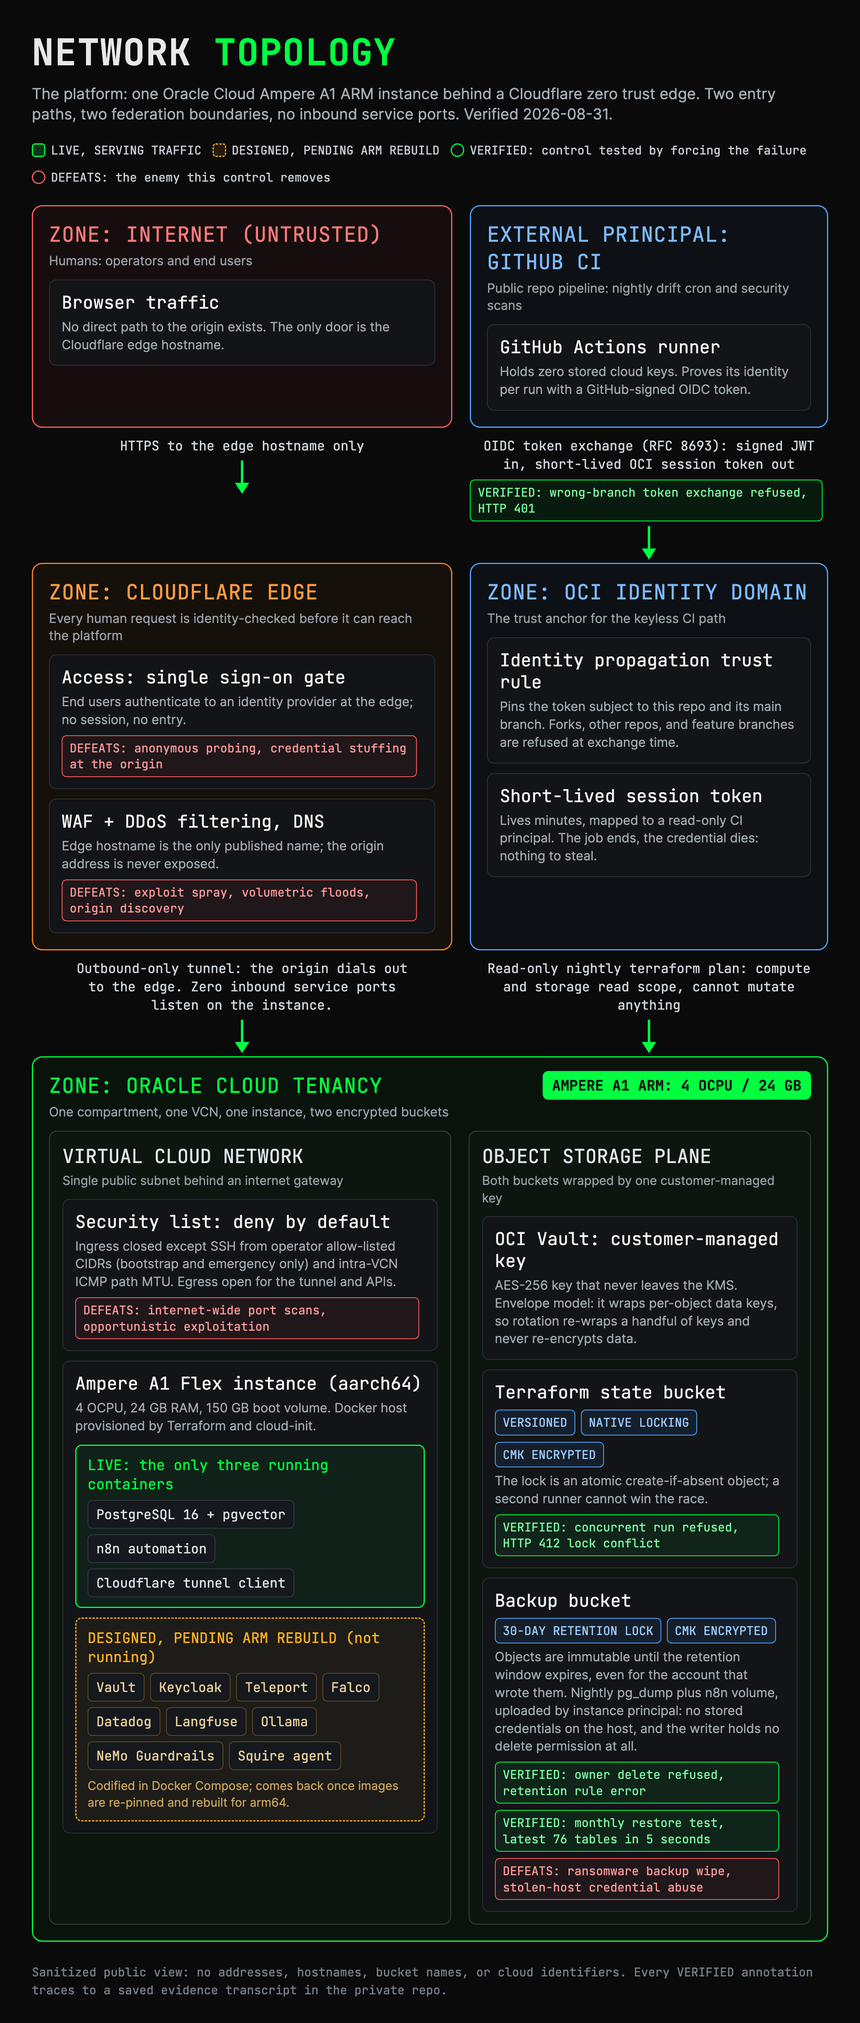
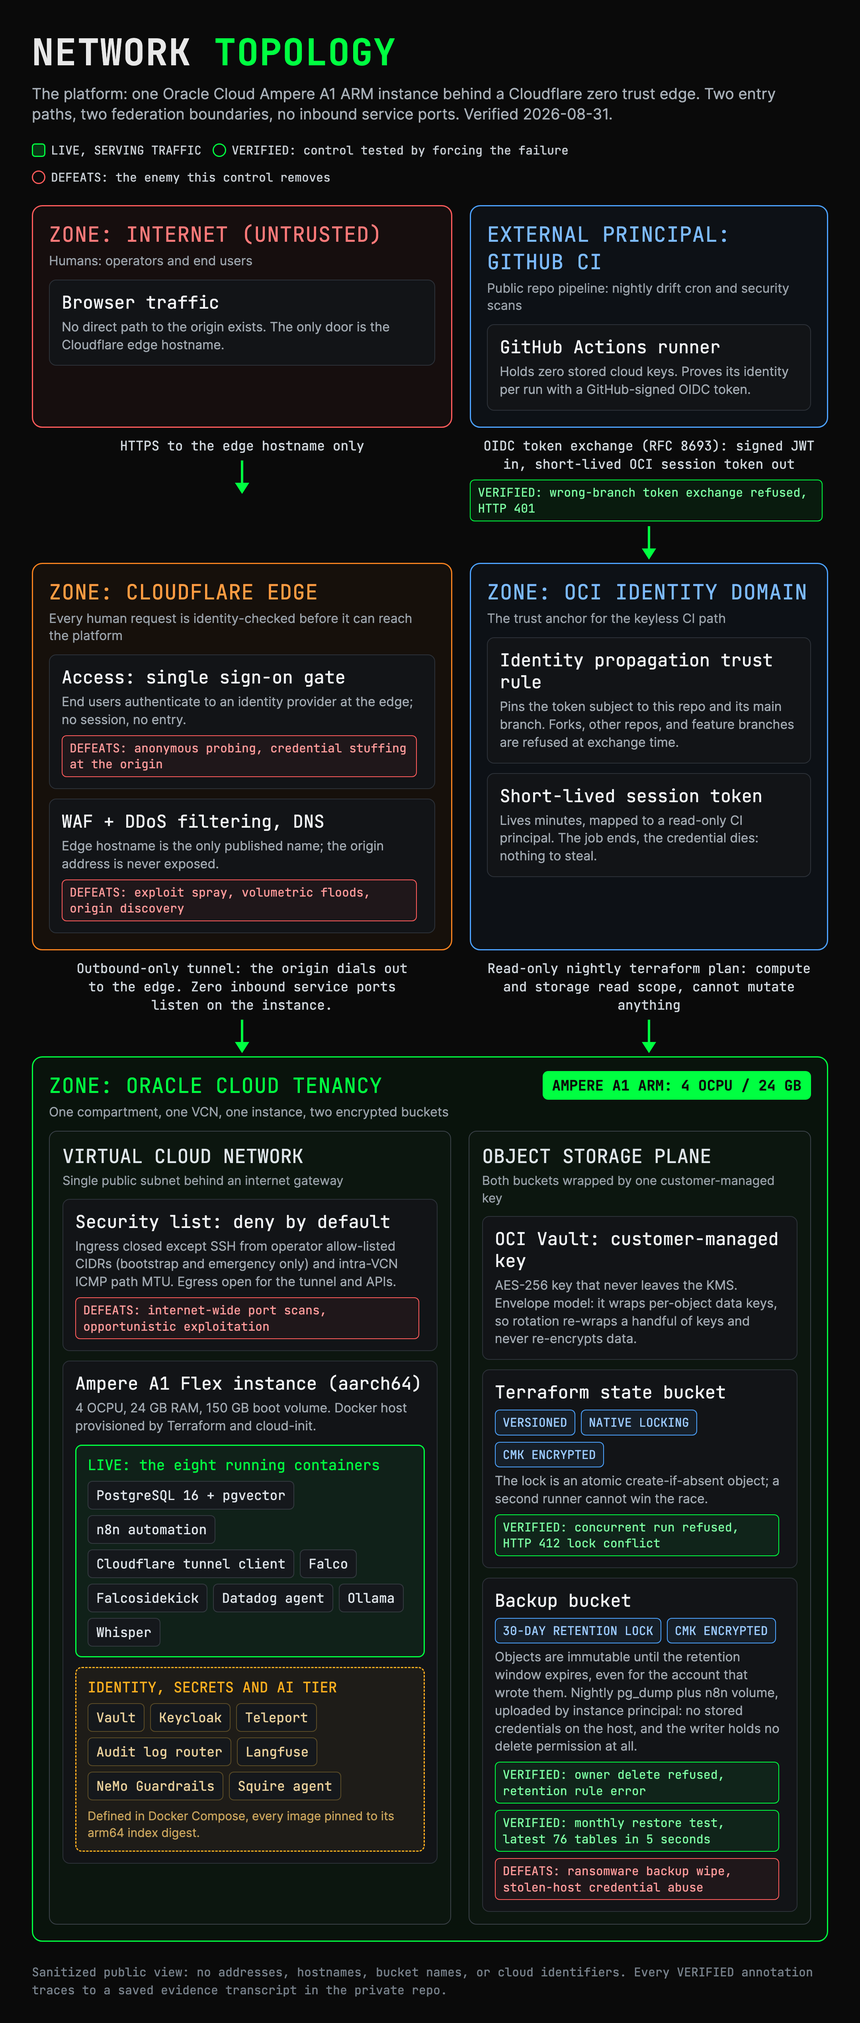
docs(24-01): a dated environment line per governance document, and the metrics constants corrected

Changed region(s): [[0.0931, 0.7155, 0.4653, 0.9333], [0.2481, 0.0622, 0.2792, 0.0933]]

diff --git a/docs/grc/diagrams/stack_overview_hero.html b/docs/grc/diagrams/stack_overview_hero.html
@@ -35,7 +35,7 @@
   .c-ci   .item::before { background:#B48CFF; }
   .item b { color:#fff; font-weight:600; }
 
-  .pending { margin-top:40px; border:3px dashed #FFB020; border-radius:26px; padding:38px 42px; background:rgba(255,176,32,.04); }
+  .tierbox { margin-top:40px; border:3px dashed #FFB020; border-radius:26px; padding:38px 42px; background:rgba(255,176,32,.04); }
   .ptitle { font-family:'JetBrains Mono','SF Mono',Menlo,monospace; font-size:56px; color:#FFB020; }
   .psub { font-size:36px; color:#c9a45c; margin-top:12px; line-height:1.4; }
   .ptags { display:flex; flex-wrap:wrap; gap:16px; margin-top:26px; }
@@ -56,7 +56,7 @@
   <div>
     <div class="eyebrow">SECURITY ENGINEERING REFERENCE STACK</div>
     <h1>THE PLATFORM <span class="green">AT A GLANCE</span></h1>
-    <div class="thesis">Two clouds in production, a third gated and scheduled: Oracle runs the workloads, Cloudflare runs the zero trust edge, AWS takes custody of evidence and break-glass. Keyless pipeline, immutable backups, self-auditing infrastructure. <b>Every control verified by making it fail.</b></div>
+    <div class="thesis">Two clouds in production and a third held behind an apply gate: Oracle runs the workloads, Cloudflare runs the zero trust edge, AWS takes custody of evidence and break-glass. Keyless pipeline, immutable backups, self-auditing infrastructure. <b>Every control verified by making it fail.</b></div>
   </div>
   <div class="shape">
     <div class="amt">24 GB</div>
@@ -75,7 +75,7 @@
   <div class="card c-comp">
     <div class="chead"><div class="ctitle">COMPUTE</div></div>
     <div class="item"><b>Ampere A1 ARM instance</b> in a deny-by-default VCN, fully Terraform-managed</div>
-    <div class="item"><b>Live containers:</b> PostgreSQL 16 + pgvector, n8n, tunnel client</div>
+    <div class="item"><b>Live containers:</b> PostgreSQL 16 + pgvector, n8n, tunnel client, Falco, Falcosidekick, Datadog agent, Ollama, Whisper</div>
     <div class="item"><b>SSH:</b> break-glass only, from allow-listed operator CIDRs</div>
   </div>
 
@@ -94,18 +94,18 @@
   </div>
 </div>
 
-<div class="pending">
-  <div class="ptitle">AI SECURITY LAYER: DESIGNED, PENDING ARM REBUILD</div>
-  <div class="psub">Codified in Docker Compose, not running yet. Returns as images are re-pinned and rebuilt for arm64.</div>
+<div class="tierbox">
+  <div class="ptitle">AI SECURITY LAYER</div>
+  <div class="psub">Defined in Docker Compose, every image pinned to its arm64 index digest.</div>
   <div class="ptags">
     <span class="ptag">Vault</span><span class="ptag">Keycloak</span><span class="ptag">Teleport</span>
-    <span class="ptag">Falco</span><span class="ptag">Datadog</span><span class="ptag">Langfuse</span>
-    <span class="ptag">Ollama</span><span class="ptag">NeMo Guardrails</span><span class="ptag">Squire agent</span>
+    <span class="ptag">Audit log router</span><span class="ptag">Langfuse</span>
+    <span class="ptag">NeMo Guardrails</span><span class="ptag">Squire agent</span>
   </div>
 </div>
 
-<div class="pending">
-  <div class="ptitle">AWS SECURITY PLANE: DESIGNED, APPLY SCHEDULED</div>
+<div class="tierbox">
+  <div class="ptitle">AWS SECURITY PLANE, HELD BEHIND AN APPLY GATE</div>
   <div class="psub">Terraform public and gate-checked. The watcher does not live in the house it watches: evidence, backup replicas, and break-glass move off the workload cloud.</div>
   <div class="ptags">
     <span class="ptag">S3 Object Lock evidence vault</span><span class="ptag">Cross-cloud break-glass + alert-on-use</span>

diff --git a/docs/grc/diagrams/network_topology.html b/docs/grc/diagrams/network_topology.html
@@ -81,7 +81,6 @@
 
 <div class="legend">
   <div class="lg"><span class="sw live"></span>LIVE, SERVING TRAFFIC</div>
-  <div class="lg"><span class="sw pend"></span>DESIGNED, PENDING ARM REBUILD</div>
   <div class="lg"><span class="sw ver"></span>VERIFIED: control tested by forcing the failure</div>
   <div class="lg"><span class="sw def"></span>DEFEATS: the enemy this control removes</div>
 </div>
@@ -182,22 +181,24 @@
         <div class="nsub">4 OCPU, 24 GB RAM, 150 GB boot volume. Docker host provisioned by Terraform and cloud-init.</div>
 
         <div class="livebox">
-          <div class="liveh">LIVE: the only three running containers</div>
+          <div class="liveh">LIVE: the eight running containers</div>
           <div class="ctrs">
             <span class="ctr">PostgreSQL 16 + pgvector</span>
             <span class="ctr">n8n automation</span>
             <span class="ctr">Cloudflare tunnel client</span>
+            <span class="ctr">Falco</span><span class="ctr">Falcosidekick</span>
+            <span class="ctr">Datadog agent</span><span class="ctr">Ollama</span><span class="ctr">Whisper</span>
           </div>
         </div>
 
         <div class="pendbox">
-          <div class="pendh">DESIGNED, PENDING ARM REBUILD (not running)</div>
+          <div class="pendh">IDENTITY, SECRETS AND AI TIER</div>
           <div class="ctrs">
             <span class="ctr">Vault</span><span class="ctr">Keycloak</span><span class="ctr">Teleport</span>
-            <span class="ctr">Falco</span><span class="ctr">Datadog</span><span class="ctr">Langfuse</span>
-            <span class="ctr">Ollama</span><span class="ctr">NeMo Guardrails</span><span class="ctr">Squire agent</span>
+            <span class="ctr">Audit log router</span><span class="ctr">Langfuse</span>
+            <span class="ctr">NeMo Guardrails</span><span class="ctr">Squire agent</span>
           </div>
-          <div class="pendnote">Codified in Docker Compose; comes back once images are re-pinned and rebuilt for arm64.</div>
+          <div class="pendnote">Defined in Docker Compose, every image pinned to its arm64 index digest.</div>
         </div>
       </div>
     </div>

diff --git a/docs/grc/diagrams/security_boundaries.html b/docs/grc/diagrams/security_boundaries.html
@@ -130,12 +130,11 @@
   <div class="inner">
     <div class="icard">
       <div class="ilabel">LIVE workload</div>
-      <div class="isub">PostgreSQL 16 + pgvector, n8n, Cloudflare tunnel client. The only three running containers.</div>
+      <div class="isub">PostgreSQL 16 with pgvector, n8n, the Cloudflare tunnel client, Falco, Falcosidekick, the Datadog agent, Ollama and Whisper.</div>
     </div>
     <div class="icard">
-      <div class="ilabel">Designed, not running</div>
-      <div class="isub">Vault, Keycloak, Teleport, Falco, Datadog, Langfuse, Ollama, NeMo Guardrails, Squire agent.</div>
-      <span class="pendtag">PENDING ARM REBUILD</span>
+      <div class="ilabel">Identity, secrets and AI tier</div>
+      <div class="isub">Vault, Keycloak, Teleport, the audit log router, Langfuse, NeMo Guardrails, Squire agent.</div>
     </div>
   </div>
 </div>

diff --git a/scripts/build_metrics.py b/scripts/build_metrics.py
@@ -30,15 +30,15 @@ WORKLOAD_LANES = ("coredirective", "empire", "filler")
 
 # Owner-approved public values not derivable from disk (or where disk would mislead).
 OWNER_APPROVED = {
-    # Container counts: the OCI instance runs a 3-container core (Postgres+pgvector,
-    # n8n, tunnel client) while the 19-service design is rebuilt for ARM. Both
-    # numbers are owner-approved; live count re-verified 2026-09-01.
+    # Container counts: both numbers are owner-approved. The live count is
+    # re-verified from docker ps on the host on the date beside it (2026-09-12);
+    # the design count is the service list in the master compose file.
     "containers_live": 8,
     "containers_designed": 19,
     # AI engine identifiers come from host config files, not always synced locally.
     "openclaw_model": "Claude Fable 5",
     "openclaw_model_id": "claude-fable-5",
-    "ollama_model": "Qwen 3 8B",
+    "ollama_model": "Qwen 3.5 9B",
     "whisper_engine": "faster-whisper",
 }
 
@@ -191,8 +191,8 @@ def compute_grc() -> dict:
 
 def compute_infra() -> dict:
     # Active IaC is the OCI directory (2026-08-19 migration). The archived
-    # DO directory still holds the Datadog monitor/dashboard definitions
-    # (codified, pending the ARM rebuild), so those counts come from there.
+    # DO directory still holds the Datadog monitor and dashboard definitions,
+    # so those counts come from there.
     tf_dir = REPO_ROOT / "terraform" / "cd-oci-infrastructure"
     aws_plane_dir = REPO_ROOT / "terraform" / "cd-aws-security-plane"
     legacy_dir = REPO_ROOT / "terraform" / "cd-do-infrastructure"
@@ -432,7 +432,7 @@ def main() -> int:
         "filesystem_root": ".",
         "ssp_source": "docs/grc/SSP_*.md",
         "poam_source": "docs/grc/POAM_PLAN_OF_ACTION.md",
-        "terraform_source": "terraform/cd-oci-infrastructure/ (active); terraform/cd-aws-security-plane/ (designed, apply scheduled); terraform/cd-do-infrastructure/ (archived)",
+        "terraform_source": "terraform/cd-oci-infrastructure/ (active); terraform/cd-aws-security-plane/ (held behind an apply gate); terraform/cd-do-infrastructure/ (archived)",
         "detections_source": "detections/",
         "workflows_source": ".github/workflows/",
         "poam_auto_source": "docs/grc/POAM_AUTO_FINDINGS.md",

diff --git a/docs/grc/SQUIRE_SSP.md b/docs/grc/SQUIRE_SSP.md
@@ -22,7 +22,7 @@ related:
   - POAM-OPS-001
 ---
 
-> **Status note (2026-09-01):** this document describes the DigitalOcean-era baseline as assessed. That environment was retired 2026-08. The platform now runs on an Oracle Cloud (OCI) ARM instance with a partial stack (3 containers live); the remaining services are pending ARM rebuild. A re-baseline of this document is queued and tracked in the POA&M.
+> **Environment (2026-09-12):** this agent system security plan describes the platform as it runs on an Oracle Cloud (OCI) ARM instance.
 
 # System Security Plan: Squire Autonomous SOC Analyst
 
@@ -290,7 +290,7 @@ This section covers only controls that are Squire-specific. Inherited controls (
 |---------|--------|----------------|----------|
 | AC-2 | Implemented | Only the System Owner has credentials to Doppler config `prd`. Squire reads secrets at container start via `doppler run --`. No user accounts exist inside the Squire application itself. | `COREDIRECTIVE_ENGINE/docker-compose.yaml` (`svc-squire` environment block) |
 | AC-3 | Implemented | `POST /alert` requires header `x-squire-token` validated against Doppler secret `SQUIRE_INGEST_TOKEN`. Missing or mismatched token returns 401. | `builds/squire/src/squire/app.py` (token check with `hmac.compare_digest`) |
-| AC-4 | Implemented | Three Docker networks isolate traffic: `net-ai` (LLM path), `net-core` (database), `net-monitoring` (Langfuse emit). `svc-squire` joins `net-core` only in the compose today; the `net-ai` membership the local-model fallback needs is a queued compose change (ARM rebuild, application tier session). | `COREDIRECTIVE_ENGINE/docker-compose.yaml` networks block and the `svc-squire` service |
+| AC-4 | Implemented | Three Docker networks isolate traffic: `net-ai` (LLM path), `net-core` (database), `net-monitoring` (Langfuse emit). `svc-squire` carries both `net-core` and `net-ai`, which is what gives the local-model fallback a route while leaving the sealed segment without a route out. | `COREDIRECTIVE_ENGINE/docker-compose.yaml` networks block and the `svc-squire` service |
 | AC-6 | Implemented | Least privilege on container filesystem: `USER 10001:10001`, `read_only: true`, `tmpfs` for `/tmp`. No `CAP_*` added; `no-new-privileges` set. | `builds/squire/Dockerfile` + compose security_opt |
 | AC-17 | Implemented | All remote administration goes through the Cloudflare zero-trust tunnel or SSH on `alpha-node`. Neither the application nor Langfuse listen on the public internet. | Parent SSP inheritance plus tunnel config |
 
@@ -350,7 +350,7 @@ This section covers only controls that are Squire-specific. Inherited controls (
 
 | Control | Status | Implementation | Evidence |
 |---------|--------|----------------|----------|
-| SC-7 | Implemented | `svc-squire` is the only service that takes external traffic, and it is bound to loopback behind the Cloudflare tunnel. `svc-nemo` is the only service permitted to egress to the model API, because it is the container that makes the model call. Langfuse and `svc-db` are on internal networks only. Three layers keep the agent off the model API, named by strength: `svc-squire` receives no model key, its settings object has no field that can hold one, and its hosts file blackholes the model API name. The third is the weakest, since code with a hard coded address would defeat it; the egress allowlist proxy that closes it properly is queued for the rebuild phase. | `COREDIRECTIVE_ENGINE/docker-compose.yaml`: ports block binds `svc-squire` to `127.0.0.1:8020`, the key is set on `svc-nemo` only, and the `extra_hosts` entry carries the blackhole |
+| SC-7 | Implemented | `svc-squire` is the only service that takes external traffic, and it is bound to loopback behind the Cloudflare tunnel. `svc-nemo` is the only service permitted to egress to the model API, because it is the container that makes the model call. Langfuse and `svc-db` are on internal networks only. Three layers keep the agent off the model API, named by strength: `svc-squire` receives no model key, its settings object has no field that can hold one, and its hosts file blackholes the model API name. The third is the weakest, since code with a hard coded address would defeat it, and the egress allowlist that closes it is recorded privately with its plan number. | `COREDIRECTIVE_ENGINE/docker-compose.yaml`: ports block binds `svc-squire` to `127.0.0.1:8020`, the key is set on `svc-nemo` only, and the `extra_hosts` entry carries the blackhole |
 | SC-8 | Implemented | All external API calls use HTTPS. Cloudflare tunnel terminates TLS at the edge and re-encrypts to the container. | Cloudflare config |
 | SC-12 | Implemented | Cryptographic keys (API keys) live in Doppler. Rotation is quarterly for external API keys and on-demand for the ingest token. | Doppler rotation log |
 | SC-28 | Implemented | Data at rest in the `ir_*` tables is encrypted at the volume layer (parent SSP). Langfuse trace data has the same treatment. | Parent SSP LUKS coverage |

diff --git a/docs/grc/THREAT_MODEL_STRIDE.md b/docs/grc/THREAT_MODEL_STRIDE.md
@@ -9,7 +9,7 @@
 **Classification:** Internal Use Only
 **Version:** 1.2 (trust boundary numbering reconciled, register recount 2026-09-06)
 
-> **Status note (2026-09-01):** this document describes the DigitalOcean-era baseline as assessed. That environment was retired 2026-08. The platform now runs on an Oracle Cloud (OCI) ARM instance with a partial stack (3 containers live); the remaining services are pending ARM rebuild. A re-baseline of this document is queued and tracked in the POA&M.
+> **Environment (2026-09-12):** this threat model is drawn against the platform as it runs on an Oracle Cloud (OCI) ARM instance.
 
 ---
 
@@ -843,7 +843,7 @@ See `ATTACK_TREE_AI_PIPELINE.md` Phase 17 Scope Extension for the 3 new Squire-s
 
 ## Phase 20.1 Mitigation Update (2026-09-01)
 
-Five controls shipped in Phase 20.1 close attack paths identified in this model; a sixth is designed and gated, closing at apply. Implementation detail lives in the Terraform repo; residual items are tracked in the POA&M.
+Five controls shipped in Phase 20.1 close attack paths identified in this model; a sixth is written and held behind an apply gate. Implementation detail lives in the Terraform repo; residual items are tracked in the POA&M.
 
 | # | New control | Attack path closed | STRIDE category |
 |---|-------------|--------------------|-----------------|
@@ -852,7 +852,7 @@ Five controls shipped in Phase 20.1 close attack paths identified in this model;
 | 3 | Customer-managed key (CMK) envelope encryption on state and backup buckets | Provider-default-only encryption at rest | Information Disclosure |
 | 4 | Retention-locked immutable backups with monthly timed restores | Ransomware deleting backups before detonation | Tampering |
 | 5 | Nightly drift detection with Telegram alerting | Unreviewed console changes persisting undetected; window now under 24 hours | Tampering |
-| 6 | AWS security plane (designed, apply scheduled): Object Lock evidence vault, cross-cloud break-glass with alert-on-use, region guard | Single-vendor failure taking evidence, backups, and emergency access together; silent break-glass use | Tampering, Repudiation, Denial of Service |
+| 6 | AWS security plane, held behind an apply gate: Object Lock evidence vault, cross-cloud break-glass with alert-on-use, region guard | Single-vendor failure taking evidence, backups, and emergency access together; silent break-glass use | Tampering, Repudiation, Denial of Service |
 
 ---
 

diff --git a/docs/grc/CODE_REVIEW_FINDINGS.md b/docs/grc/CODE_REVIEW_FINDINGS.md
@@ -8,7 +8,7 @@
 **Classification:** Internal Use Only
 **Version:** 1.1
 
-> **Status note (2026-08-31):** infrastructure has since migrated to Oracle Cloud (OCI); see docs/architecture/ for the current stack. Findings below describe the environment as assessed on the assessment date, including the object storage state backend then in use. The 19-service compose environment reviewed here was retired with the DigitalOcean host in 2026-08; open items roll into the OCI re-baseline.
+> **Status note (2026-08-31):** infrastructure has since migrated to Oracle Cloud (OCI); see docs/architecture/ for the current stack. Findings below describe the environment as assessed on the assessment date, including the object storage state backend then in use. The 19-service compose environment reviewed here was retired with the DigitalOcean host in 2026-08.
 
 ---
 
@@ -550,7 +550,7 @@ The following table maps each finding to the NIST 800-53 Rev. 5 controls that ar
 
 ## 6. Remediation Tracking
 
-> Status as of 2026-06-24 audit refresh: all OPEN items below have crossed their original target date and carry a Past Due flag. With the reviewed environment retired in 2026-08, remaining open items roll into the OCI re-baseline rather than being closed against the old host.
+> Status as of 2026-06-24 audit refresh: all OPEN items below have crossed their original target date and carry a Past Due flag. The reviewed environment was retired in 2026-08, so the open items below are read against the current stack rather than closed against the old host.
 
 | Finding | Action Item | Owner | Target Date | Status |
 |---------|------------|-------|-------------|--------|

diff --git a/docs/grc/DATA_FLOW_DIAGRAM.md b/docs/grc/DATA_FLOW_DIAGRAM.md
@@ -8,7 +8,7 @@
 **Classification:** Internal Use Only
 **Version:** 1.1
 
-> **Status note (2026-09-01):** this document describes the DigitalOcean-era baseline as assessed. That environment was retired 2026-08. The platform now runs on an Oracle Cloud (OCI) ARM instance with a partial stack (3 containers live); the remaining services are pending ARM rebuild. A re-baseline of this document is queued and tracked in the POA&M.
+> **Environment (2026-09-12):** this data flow diagram maps the platform as it runs on an Oracle Cloud (OCI) ARM instance.
 
 ---
 
@@ -567,8 +567,8 @@ Phase 17 added no boundary of its own. Its flows cross boundaries the model alre
 |----|--------|---------|------|
 | E-12 | Anthropic API | Primary Fable 5 and Opus 5 inference | API key, 60-day rotation |
 | E-13 | Tavily API | Enrichment search | API key |
-<!-- TODO(et): Clarify production state of OpenClaw OAuth bearer. "pending" status needs an explicit owner and ETA. -->
-| E-14 | OpenClaw gateway | Agent dispatch path | OAuth bearer, pending |
+<!-- TODO(et): name the owner and the rotation cadence for the gateway OAuth bearer. -->
+| E-14 | OpenClaw gateway | Agent dispatch path | OAuth bearer |
 
 ### 11.6 Reconciled counts
 

diff --git a/docs/grc/HIPAA_EPHI_HANDLING.md b/docs/grc/HIPAA_EPHI_HANDLING.md
@@ -9,7 +9,7 @@
 **Pairs With:** HIPAA-001 (HIPAA Security Rule Crosswalk)
 **NIST 800-53 Controls:** SC-8 (Transmission Confidentiality), SC-13 (Cryptographic Protection), SC-28 (Protection of Information at Rest), SC-28(1) (Cryptographic Protection), MP-6 (Media Sanitization), MP-7 (Media Use), AU-2 (Event Logging), AU-3 (Content of Audit Records), AU-9 (Protection of Audit Information), AU-11 (Audit Record Retention), AC-2 (Account Management), AC-3 (Access Enforcement), AC-6 (Least Privilege), IA-2 (Identification and Authentication)
 
-> **Status note (2026-09-01):** this document describes the DigitalOcean-era baseline as assessed. That environment was retired 2026-08. The platform now runs on an Oracle Cloud (OCI) ARM instance with a partial stack (3 containers live); the remaining services are pending ARM rebuild. A re-baseline of this document is queued and tracked in the POA&M.
+> **Environment (2026-09-12):** this handling procedure applies to the platform as it runs on an Oracle Cloud (OCI) ARM instance.
 
 ---
 

diff --git a/docs/grc/PLAYBOOK_COMPROMISED_CONTAINER.md b/docs/grc/PLAYBOOK_COMPROMISED_CONTAINER.md
@@ -7,7 +7,7 @@
 **Classification:** Internal Use Only
 **NIST 800-53 Controls:** IR-4 (Incident Handling), IR-5 (Incident Monitoring), IR-6 (Incident Reporting), SI-4 (Information System Monitoring), SI-7 (Software, Firmware, and Information Integrity)
 
-> **Status note (2026-09-01):** this document describes the DigitalOcean-era baseline as assessed. That environment was retired 2026-08. The platform now runs on an Oracle Cloud (OCI) ARM instance with a partial stack (3 containers live); the remaining services are pending ARM rebuild. A re-baseline of this document is queued and tracked in the POA&M.
+> **Environment (2026-09-12):** this container compromise playbook is written against the platform as it runs on an Oracle Cloud (OCI) ARM instance.
 
 ---
 

diff --git a/docs/grc/AI_SUPPLY_CHAIN_REGISTER.md b/docs/grc/AI_SUPPLY_CHAIN_REGISTER.md
@@ -9,7 +9,7 @@
 **Distinct From:** AI_SUPPLY_CHAIN_RISK.md (the policy). This document is the living asset register that the policy references.
 **NIST 800-53 Controls:** CM-8 (System Component Inventory), SR-4 (Provenance), SR-11 (Component Authenticity)
 
-> **Status note (2026-09-01):** this document describes the DigitalOcean-era baseline as assessed. That environment was retired 2026-08. The platform now runs on an Oracle Cloud (OCI) ARM instance with a partial stack (3 containers live); the remaining services are pending ARM rebuild. A re-baseline of this document is queued and tracked in the POA&M.
+> **Environment (2026-09-12):** this supply chain register is kept against the platform as it runs on an Oracle Cloud (OCI) ARM instance.
 
 ---
 

diff --git a/docs/grc/PLAYBOOK_DDOS_SERVICE_DEGRADATION.md b/docs/grc/PLAYBOOK_DDOS_SERVICE_DEGRADATION.md
@@ -7,7 +7,7 @@
 **Classification:** Internal Use Only
 **NIST 800-53 Controls:** IR-4 (Incident Handling), IR-5 (Incident Monitoring), IR-6 (Incident Reporting), SC-5 (Denial of Service Protection), CP-10 (Information System Recovery)
 
-> **Status note (2026-09-01):** this document describes the DigitalOcean-era baseline as assessed. That environment was retired 2026-08. The platform now runs on an Oracle Cloud (OCI) ARM instance with a partial stack (3 containers live); the remaining services are pending ARM rebuild. A re-baseline of this document is queued and tracked in the POA&M.
+> **Environment (2026-09-12):** this service degradation playbook is written against the platform as it runs on an Oracle Cloud (OCI) ARM instance.
 
 ---
 
